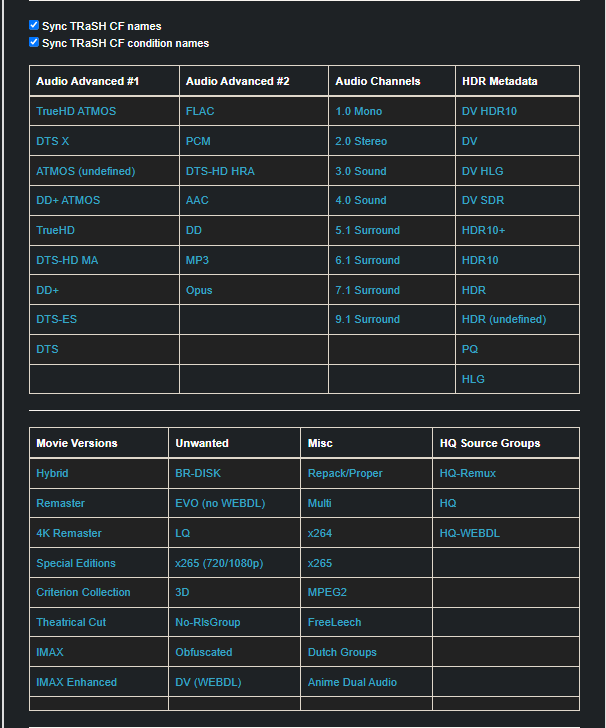
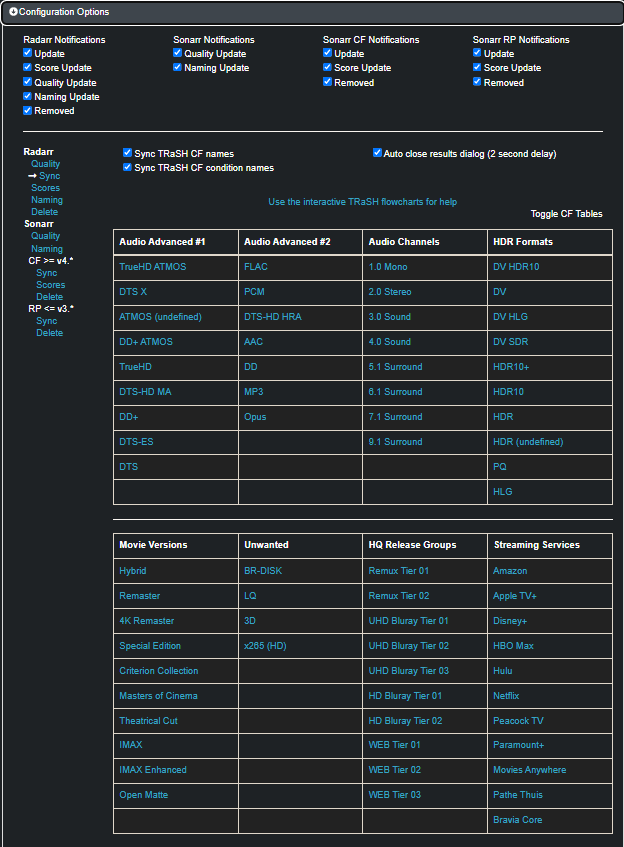
[Guide] update what the 3rd party apps are able to sync and more

Changed region(s): [[0.0, 0.0, 1.0, 1.0]]

diff --git a/docs/Misc/trash-sync.md b/docs/Misc/trash-sync.md
@@ -4,17 +4,24 @@ These are 3rd party applications to sync several sections of the guide with your
 
 - GUI (graphical user interface) [^1]
 - Radarr Custom Formats [^1] [^2]
+- Radarr Use Flowchart to choose the correct Custom Formats for your Quality Profile [^1]
+- Radarr Clear all Custom Formats [^1]
 - Radarr Scores [^1] [^2]
-- Radarr Quality Settings (File Size) [^2]
-- Sonarr Release Profile RegEx (WEB-DL) [^1] [^2]
-- Sonarr Release Profile RegEx (Anime) [^1] [^2]
-- Sonarr Quality Settings (File Size) [^2]
+- Radarr Quality Settings (File Size) [^1] [^2]
+- Radarr Naming Scheme [^1]
+- Sonarr Release Profile RegEx [^1] [^2]
+- Sonarr v4 Custom Format [^1] [^2]
+- Sonarr Clear all Release Profiles/Custom Formats [^1]
+- Sonarr Quality Settings (File Size) [^1] [^2]
+- Sonarr Naming Scheme [^1]
 
 ------
 
 ## Notifiarr
 
 It's possible with [Notifiarr](https://notifiarr.com){:target="_blank" rel="noopener noreferrer"} ([Patron feature](https://notifiarr.wiki/FAQ#patron){:target="_blank" rel="noopener noreferrer"})
+
+Notifiarr is a service much bigger in scope than just custom format syncing.
 
 After setup it's fully automated and will check every X minutes for updates to the Custom Formats or Sonarr Release Profile and will update it to your Radarr or Sonarr (Multiple Client Support).
 
